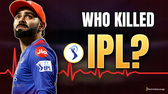
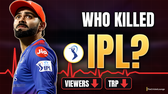
Thumbnails C/D: VIEWERS and TRP down-arrow tags
Claude-Session: https://claude.ai/code/session_01SQh72PYSr2UGL5osbLDTTd

Changed region(s): [[0.3571, 0.8085, 0.8036, 0.9574]]

diff --git a/ipl_killed/thumb/make_thumb_cd.py b/ipl_killed/thumb/make_thumb_cd.py
@@ -91,6 +91,29 @@ def ipl_badge(base, cx=560, cy=405, d=152):
     base.alpha_composite(disc, (cx - d // 2 - 20, cy - d // 2 - 20))
 
 
+def down_tag(base, x, y, label, num=None):
+    """Dark pill: LABEL + optional number + a big red down arrow."""
+    f = ImageFont.truetype(ANTON, 58)
+    txt = label if num is None else f"{label} {num}"
+    d0 = ImageDraw.Draw(base)
+    tw = d0.textlength(txt, font=f)
+    w, h = int(tw + 30 + 70 + 28), 92
+    pill = Image.new("RGBA", (w, h), (0, 0, 0, 0))
+    dp = ImageDraw.Draw(pill)
+    dp.rounded_rectangle((0, 0, w - 1, h - 1), 18, fill=(14, 14, 18, 235), outline=(229, 52, 52, 255), width=4)
+    dp.text((26, h / 2 + 2), txt, font=f, fill=(255, 255, 255, 255), anchor="lm")
+    ax, ay = 26 + tw + 18 + 26, 14                             # red arrow pointing down
+    k = 1.0
+    arrow = [(ax - 13 * k, ay), (ax + 13 * k, ay), (ax + 13 * k, ay + 34), (ax + 30, ay + 34), (ax, ay + 66),
+             (ax - 30, ay + 34), (ax - 13 * k, ay + 34)]
+    dp.polygon(arrow, fill=(229, 52, 52, 255))
+    m = Image.new("L", base.size, 0)
+    m.paste(pill.split()[3], (x, y))
+    base.alpha_composite(soft_shadow(m, (6, 8), 10, 0.6))
+    base.alpha_composite(pill, (x, y))
+    return w
+
+
 def finish(base, name):
     logo = Image.open(LOGO).convert("RGBA")
     logo = logo.resize((140, round(logo.height * 140 / logo.width)), Image.LANCZOS)
@@ -110,6 +133,8 @@ def thumb_c():
     kohli(base)
     headline(base)
     ipl_badge(base)
+    w1 = down_tag(base, 468, 592, "VIEWERS")
+    down_tag(base, 468 + w1 + 20, 592, "TRP")
     finish(base, "IPL_is_dying_thumbnail_C_graph.jpg")
 
 
@@ -128,6 +153,8 @@ def thumb_d():
     kohli(base)
     headline(base)
     ipl_badge(base)
+    w1 = down_tag(base, 468, 592, "VIEWERS")
+    down_tag(base, 468 + w1 + 20, 592, "TRP")
     finish(base, "IPL_is_dying_thumbnail_D_flatline.jpg")
 
 
